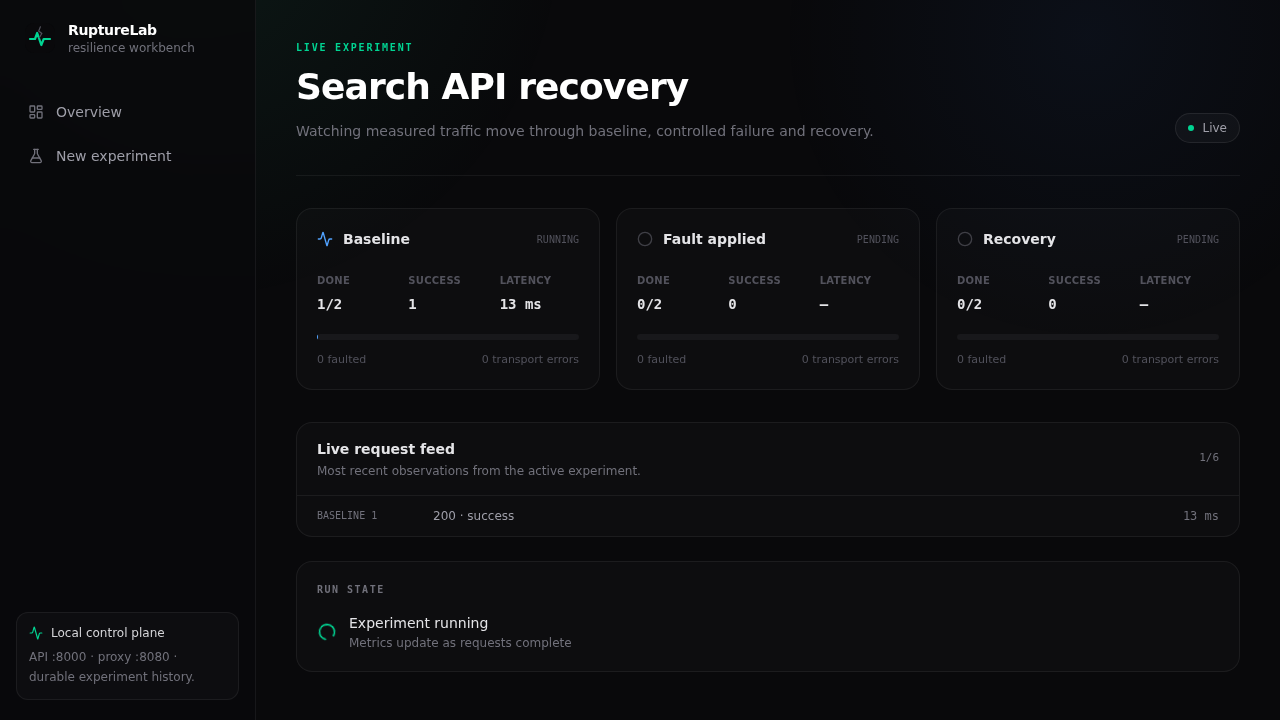
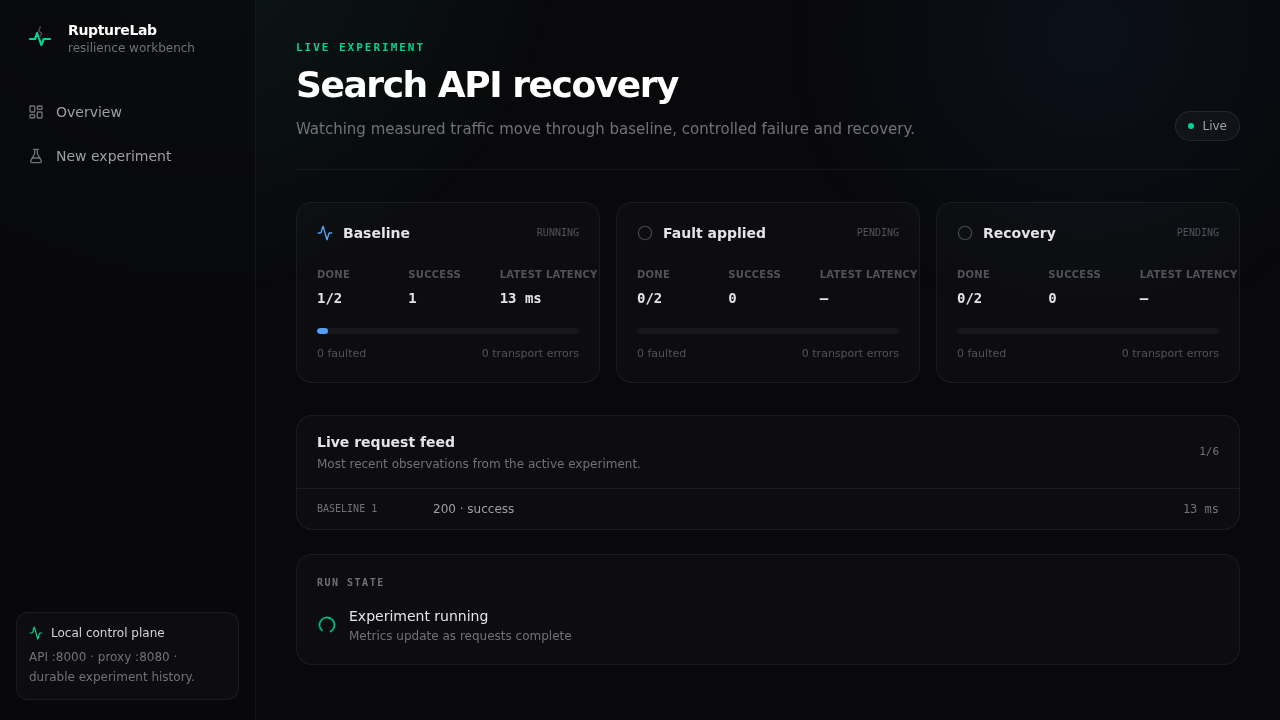
docs(release): refresh v1.0.0 release evidence

diff --git a/README.md b/README.md
@@ -100,9 +100,9 @@ GET /demo/products
 5 requests per phase
 100 ms between requests
 100% HTTP 503 fault injection
-baseline success >= 100%
-fault injection >= 100%
-recovery success >= 100%
+baseline success ≥ 100%
+fault rate ≥ 100%
+recovery success ≥ 100%
 ```
 
 That produces 15 measured requests across baseline, fault, and recovery and a three-check contract evaluation.
@@ -118,7 +118,7 @@ For a short product walkthrough, see [docs/demo.md](docs/demo.md).
 | Timeout | Lets the upstream process the request, then delays and returns HTTP 504 |
 | Malformed JSON | Forwards upstream processing, then replaces the response body with malformed JSON |
 
-Fault profiles also support HTTP method filters, path-prefix matching, probability from `0.0` to `1.0`, and up to 30 seconds of configured latency/timeout delay.
+Fault profiles also support HTTP method filters, path-prefix matching, probability from `0.0` to `1.0`, and up to 30 seconds of configured latency/timeout delay. Experiment request targets must stay on the configured proxy origin; query strings are supported, while authority-like paths, fragments, dot segments, and the reserved `/_rupturelab` control namespace are rejected.
 
 ## Resilience contracts
 
@@ -126,10 +126,10 @@ Contracts are phase-specific and may combine any of these checks:
 
 | Check | Operator |
 | --- | --- |
-| Minimum success rate | `>=` |
-| Maximum p95 latency | `<=` |
-| Maximum transport errors | `<=` |
-| Minimum injected-fault rate | `>=` |
+| Minimum success rate | `≥` |
+| Maximum p95 latency | `≤` |
+| Maximum transport errors | `≤` |
+| Minimum fault rate | `≥` |
 
 A contract passes only when every configured check passes.
 
@@ -139,8 +139,8 @@ RuptureLab is validated at three levels:
 
 | Layer | Current v1.0 gate |
 | --- | --- |
-| Backend | 87 tests; strict mypy; Ruff; Alembic upgrade/check/downgrade; pip dependency audit; 100% line and branch coverage across the `rupturelab` package |
-| Frontend | 31 unit/component tests; strict TypeScript; ESLint; Prettier; npm production audit; 100% statement/branch/function/line coverage across project-owned frontend logic; 3 Chromium flows |
+| Backend | 108 tests; strict mypy; Ruff; Alembic upgrade/check/downgrade; pip dependency audit; 100% line and branch coverage across the `rupturelab` package |
+| Frontend | 53 unit/component tests; strict TypeScript; ESLint; Prettier; npm production audit; 100% statement/branch/function/line coverage across project-owned frontend logic; 5 Chromium flows |
 | System | Production Compose build; five healthy services; restart and persistence smoke checks; overlapping-run protection; non-root container checks; real Chromium run through Next.js → API → proxy → target → PostgreSQL |
 
 GitHub Actions runs the same three pipelines on every pull request and push to `main`: **Backend Quality**, **Frontend Quality**, and **System Quality**.
@@ -212,7 +212,7 @@ npm --prefix frontend run test:system
 
 ## Scope and safety
 
-RuptureLab is designed for local development, test environments, and systems you own or are explicitly authorized to test. The proxy control namespace has no authentication layer and should not be exposed directly to an untrusted network. It is a resilience experimentation tool, not a load-testing platform, service mesh, or production traffic-management system.
+RuptureLab is designed for local development, test environments, and systems you own or are explicitly authorized to test. The proxy control namespace has no authentication layer and should not be exposed directly to an untrusted network. Experiment headers and request bodies are persisted with completed runs, so use synthetic test values rather than real credentials or sensitive payloads. It is a resilience experimentation tool, not a load-testing platform, service mesh, or production traffic-management system.
 
 See [SECURITY.md](SECURITY.md) for the operational security model.
 

diff --git a/CHANGELOG.md b/CHANGELOG.md
@@ -11,6 +11,7 @@ First public release of RuptureLab.
 - request-level latency, status, transport-error, and injected-fault measurements
 - phase summaries with success/failure counts, fault counts, average latency, and p95 latency
 - declarative resilience contracts with persisted per-check outcomes
+- local request-target validation that prevents experiment paths from replacing the configured proxy authority
 
 ### Live dashboard
 
@@ -18,7 +19,8 @@ First public release of RuptureLab.
 - live baseline/fault/recovery progress over Server-Sent Events
 - sequenced event replay with `Last-Event-ID`
 - request-level live feed and automatic transition to persisted results
-- responsive desktop and mobile interface
+- responsive desktop, tablet, and mobile interface with narrow-screen history and request-trace layouts
+- distinct global and experiment-specific not-found states
 
 ### Persistence and runtime
 
@@ -29,9 +31,9 @@ First public release of RuptureLab.
 
 ### Quality gates
 
-- 87 backend tests with 100% line and branch coverage
-- 31 frontend unit/component tests with 100% statement, branch, function, and line coverage across project-owned frontend logic
-- 3 browser UI flows
+- 108 backend tests with 100% line and branch coverage
+- 53 frontend unit/component tests with 100% statement, branch, function, and line coverage across project-owned frontend logic
+- 5 browser UI flows
 - real Compose-backed Chromium system test
 - restart, persistence, concurrency, non-root, and recovery smoke checks
 - Ruff, strict mypy, ESLint, Prettier, TypeScript, Alembic verification, pip-audit, and npm audit in CI
